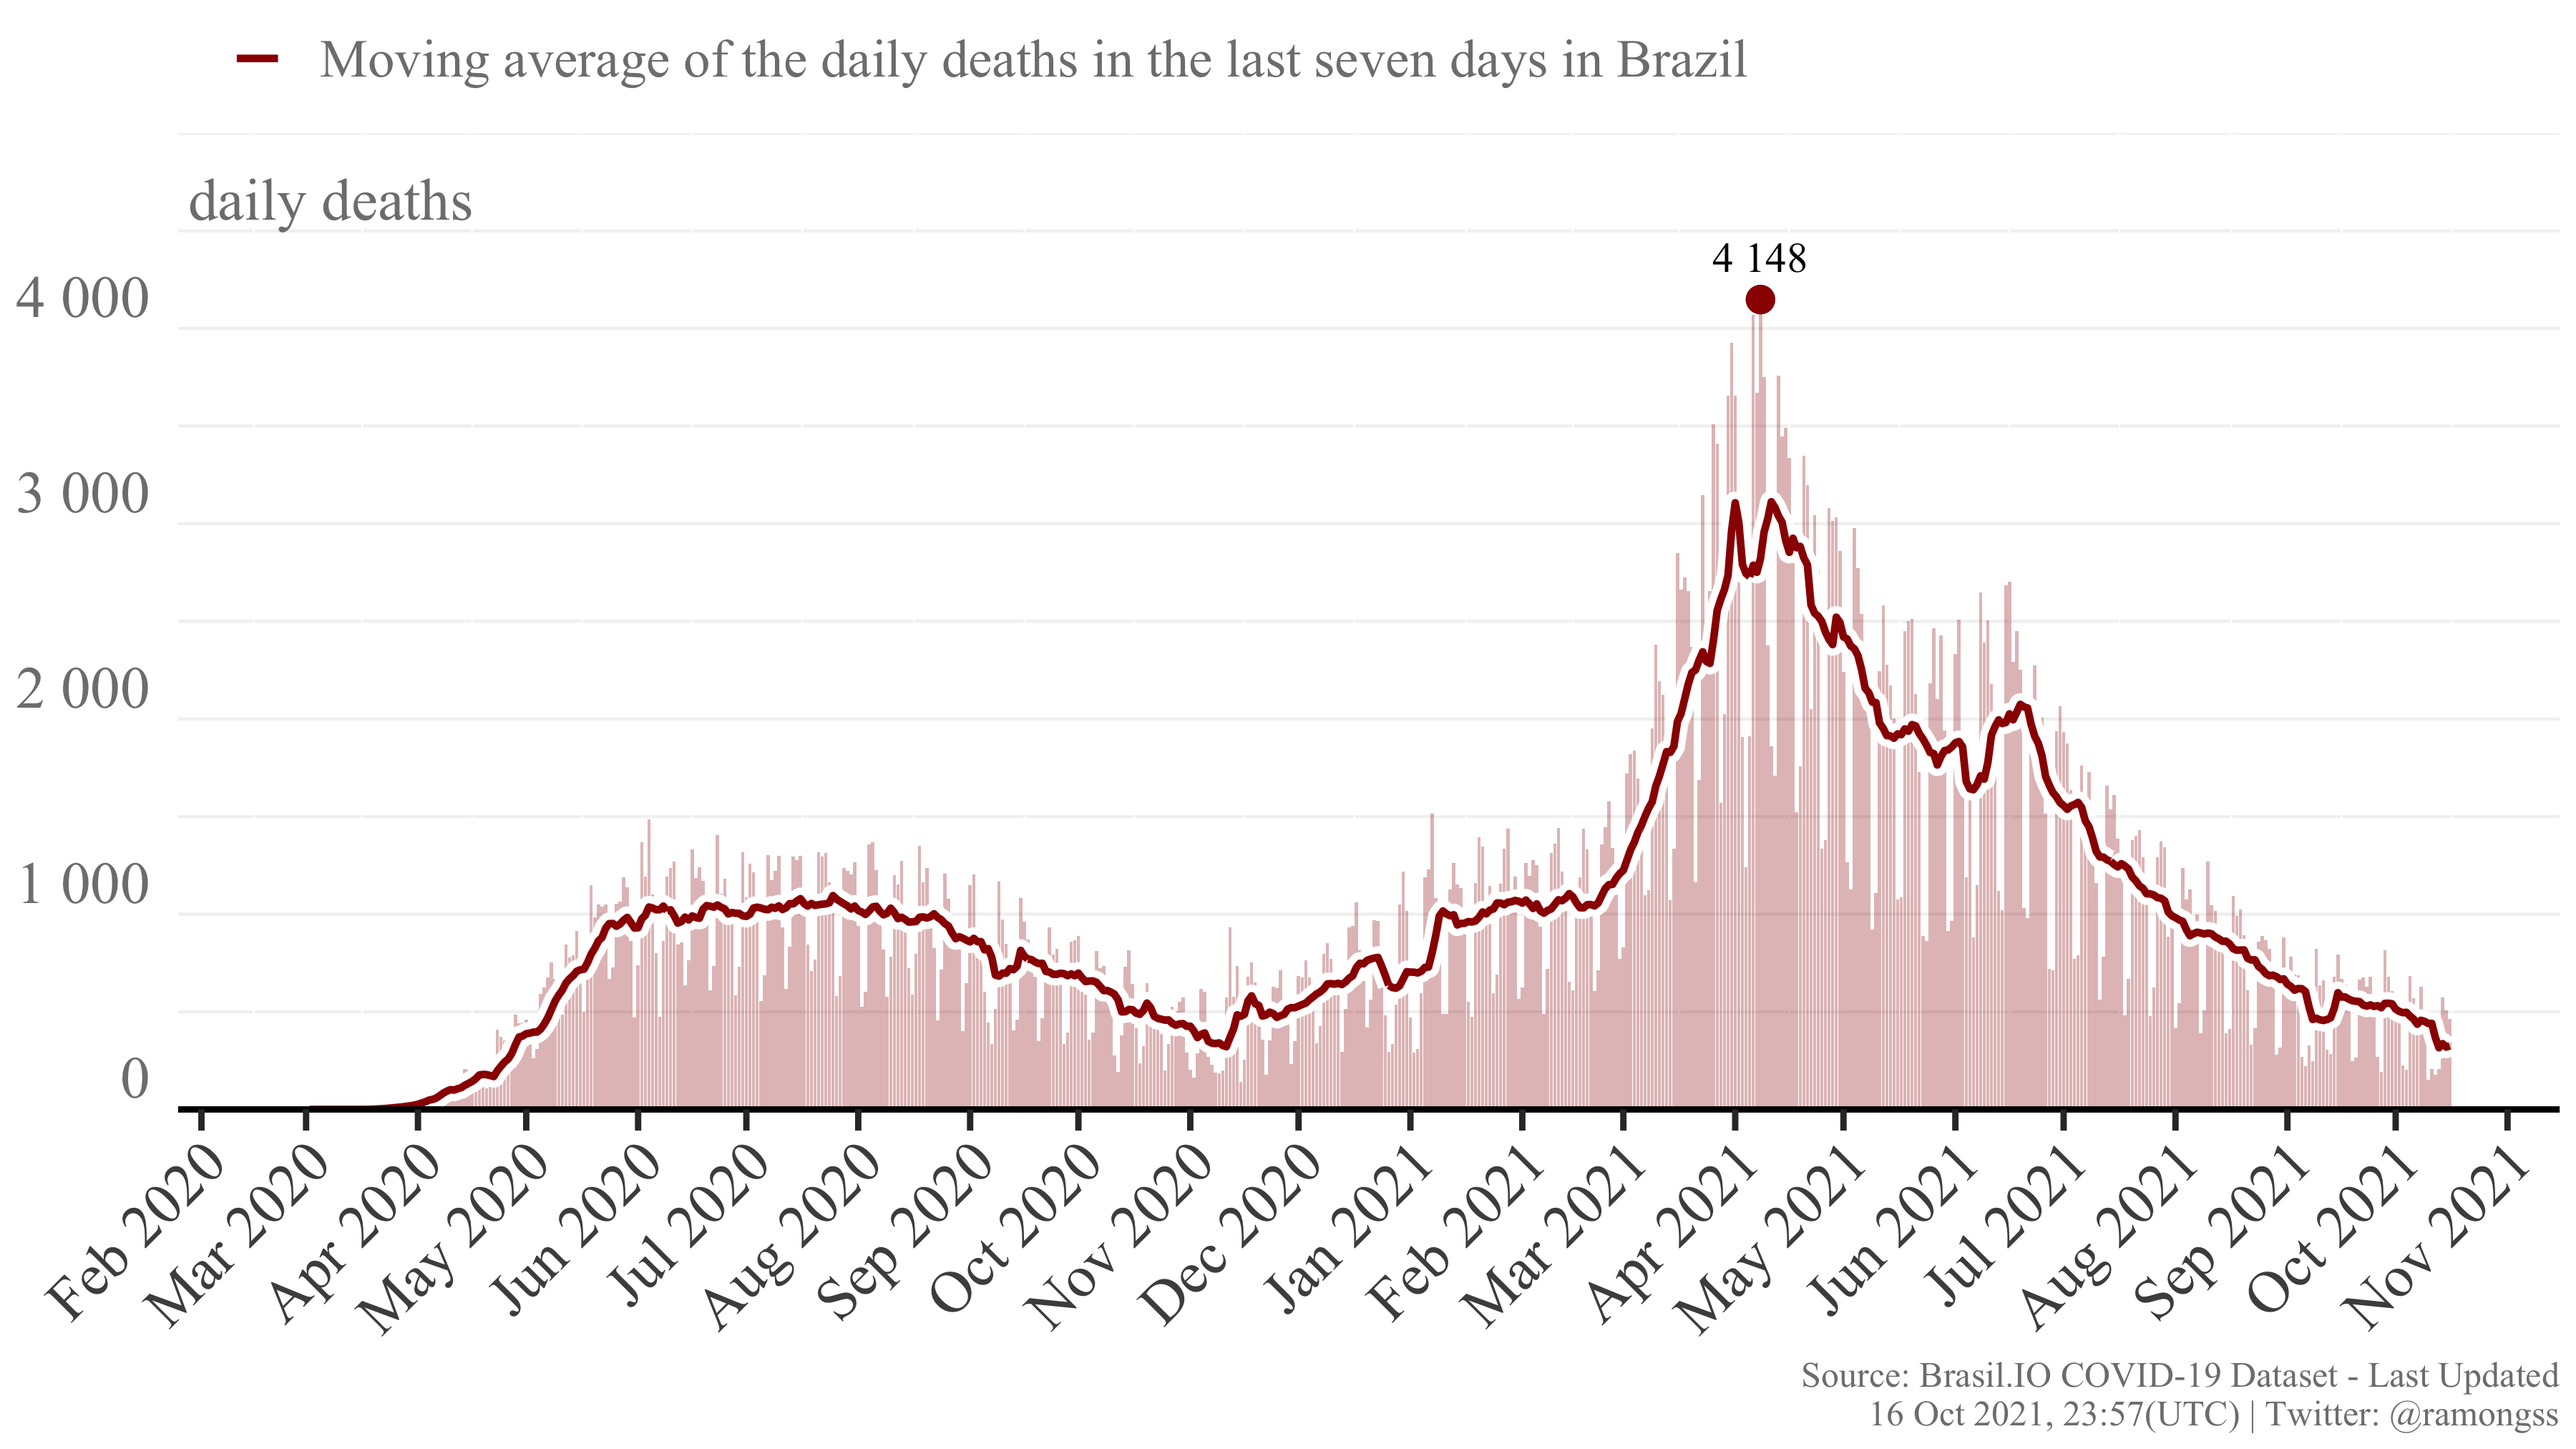
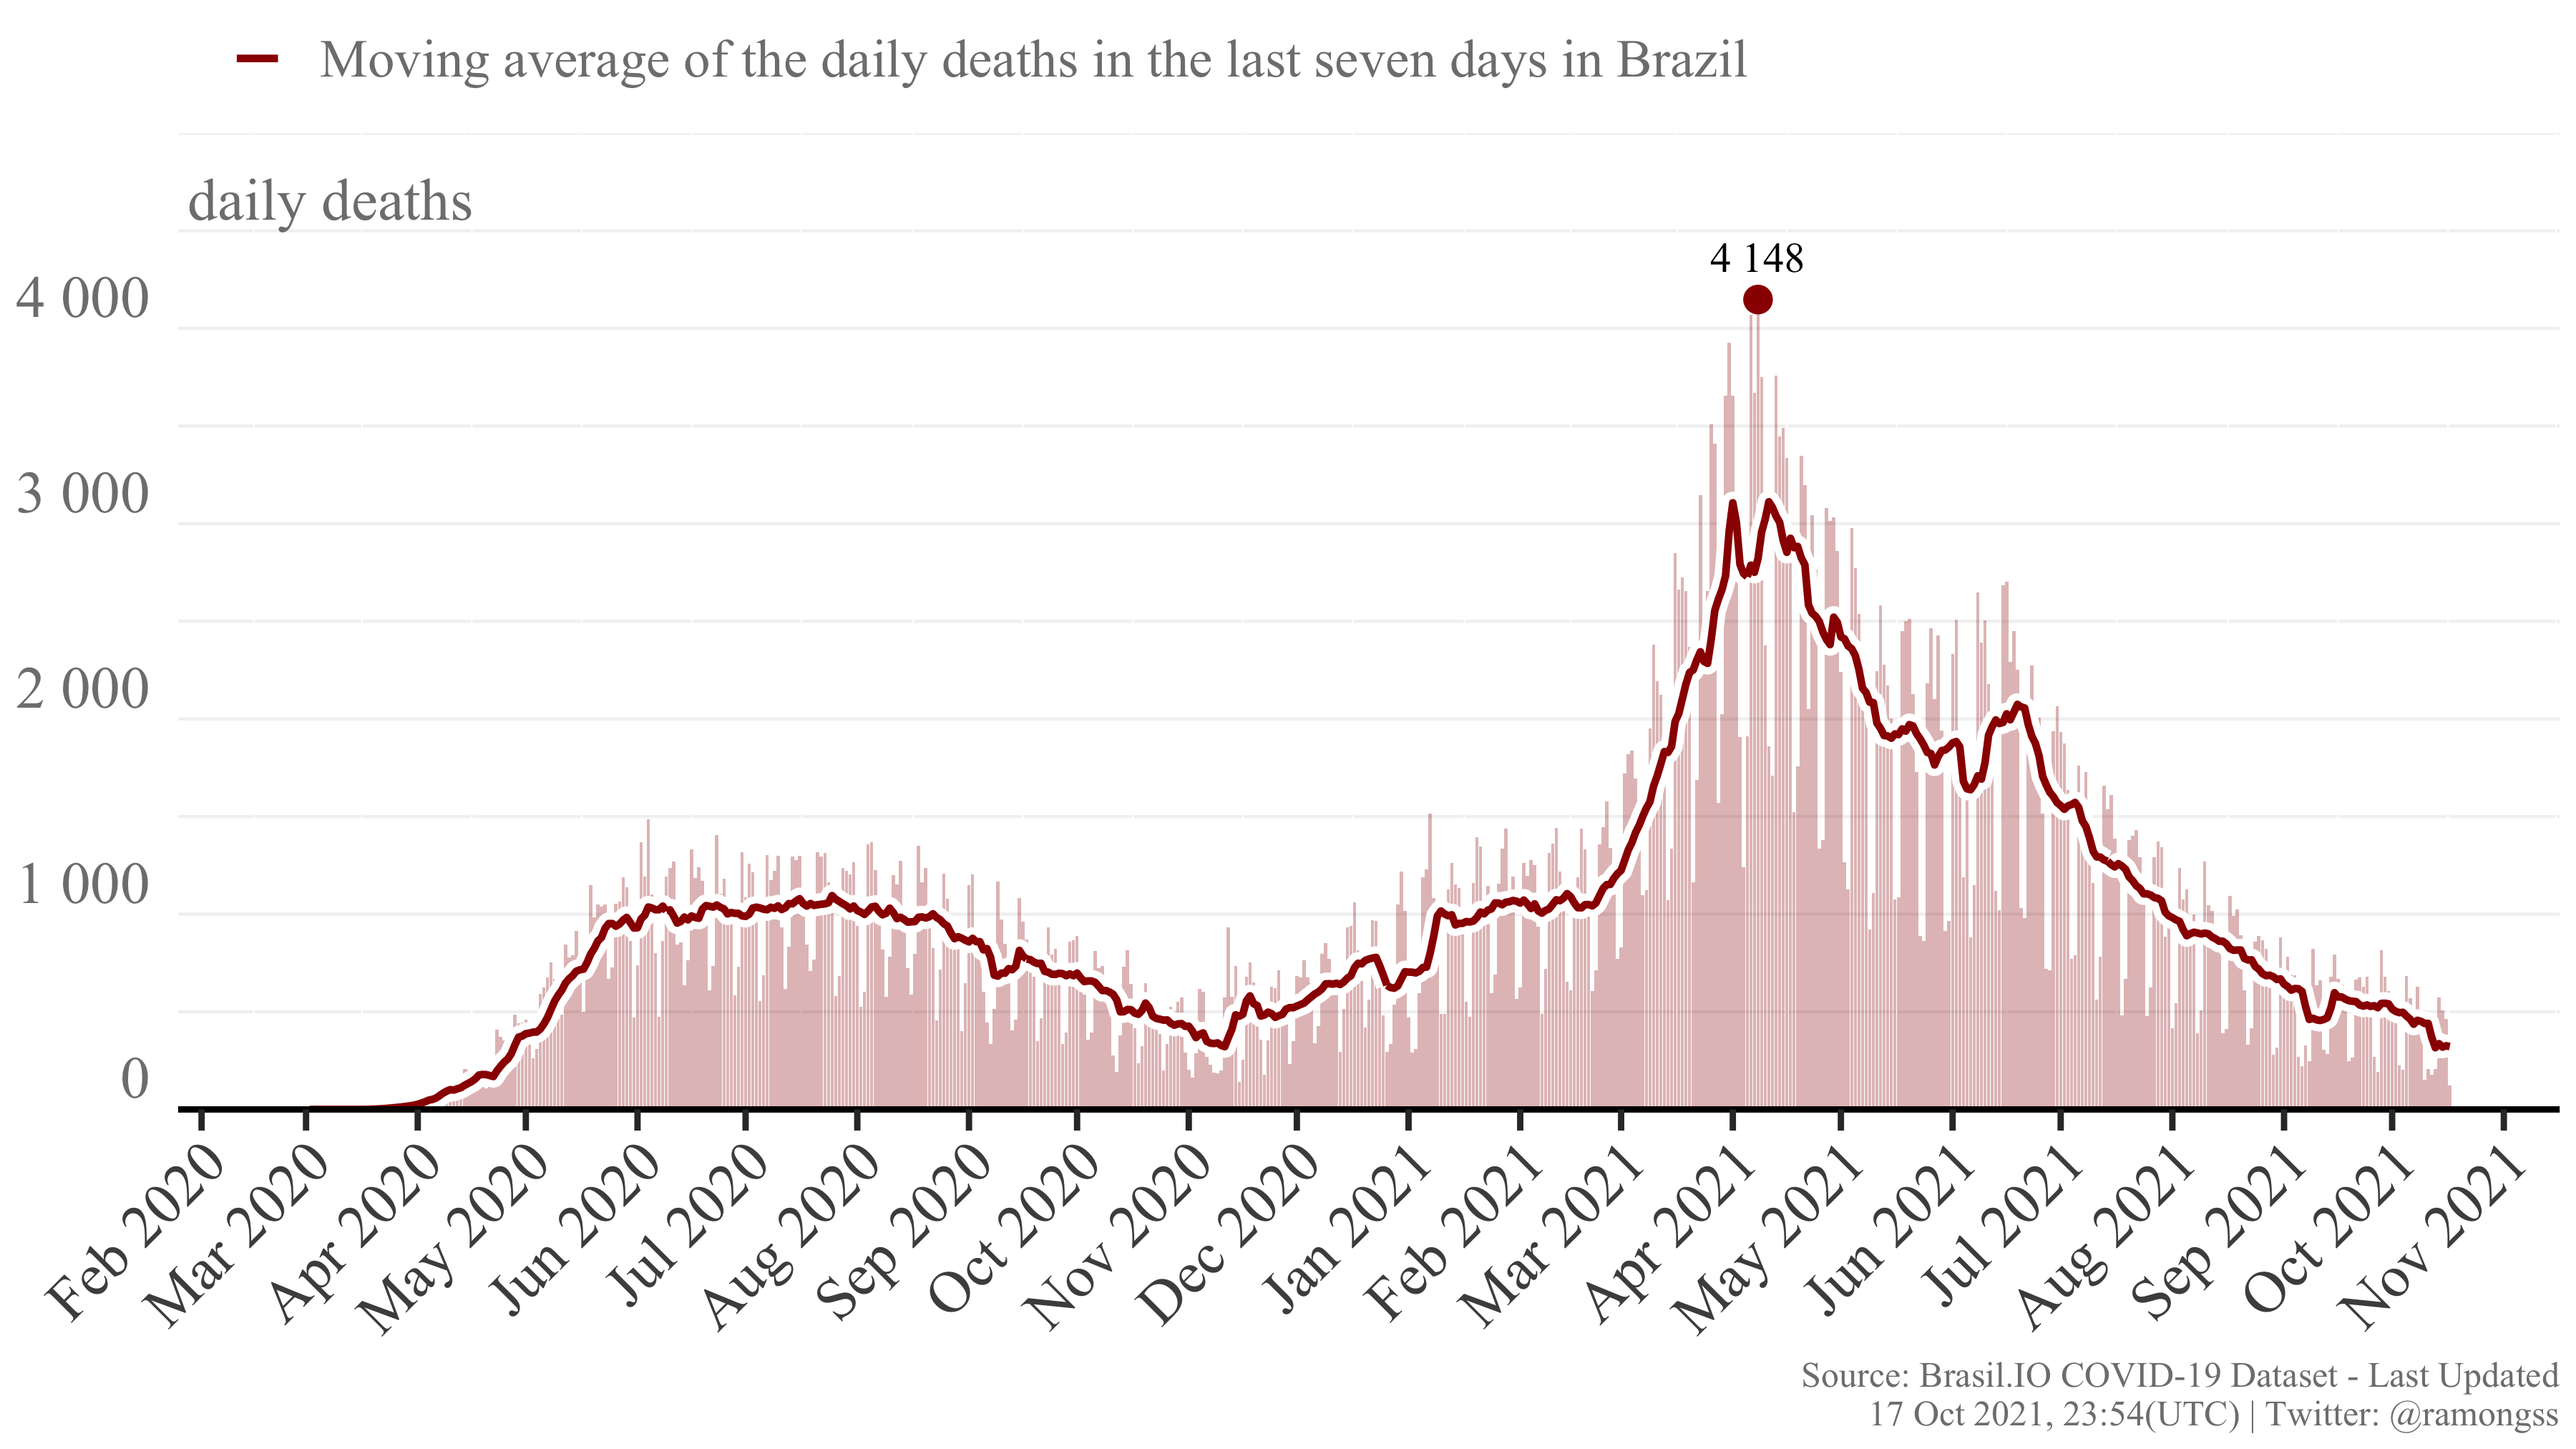
Re-build README.Rmd

diff --git a/README.md b/README.md
@@ -27,8 +27,8 @@ download_brasilio_table <- function(dataset = "covid19", table_name){
 
 ## COVID-19 Confirmed cases
 
-Currently, Brazil has a total of **21,642,442** confirmed cases at **16
-Oct, 2021**, with **9,657** new confirmed cases. The daily maximum
+Currently, Brazil has a total of **21,648,318** confirmed cases at **17
+Oct, 2021**, with **5,768** new confirmed cases. The daily maximum
 incidence was **124,878** confirmed cases at **18 Sep, 2021**. Here
 follows the Figure showing the confirmed case incidence as the bars, and
 the line as the moving average of the last 7 days.
@@ -37,8 +37,8 @@ the line as the moving average of the last 7 days.
 
 ## COVID-19 Deaths
 
-Currently, Brazil has a total of **603,414** deaths at **16 Oct, 2021**,
-with **462** new deaths. The daily maximum deaths incidence was
+Currently, Brazil has a total of **603,540** deaths at **17 Oct, 2021**,
+with **123** new deaths. The daily maximum deaths incidence was
 **4,148** deaths at **08 Apr, 2021**. Here follows the Figure showing
 the deaths incidence as the bars, and the line as the moving average of
 the last 7 days.
@@ -49,4 +49,4 @@ the last 7 days.
 
 This page is daily updated automatically using Github Actions.
 
-*Last update: 16 Oct 2021, 23:57 (UTC).*
+*Last update: 17 Oct 2021, 23:54 (UTC).*
